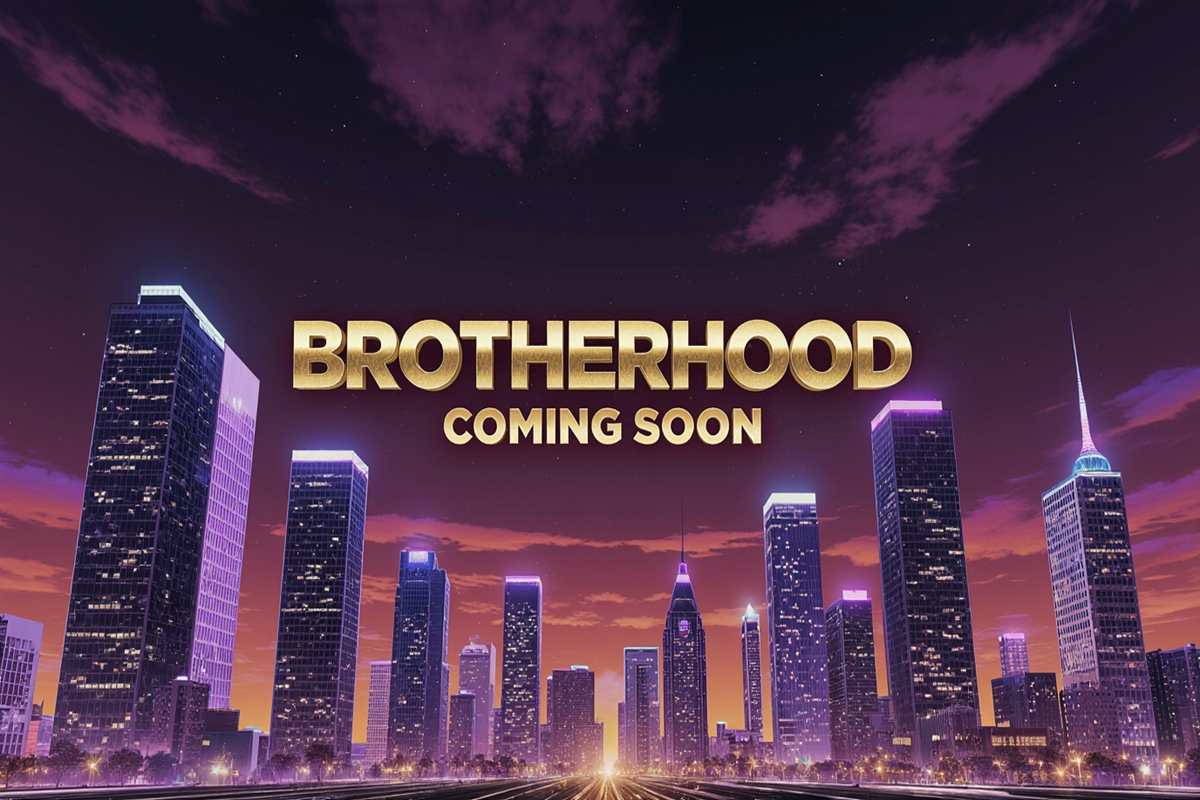
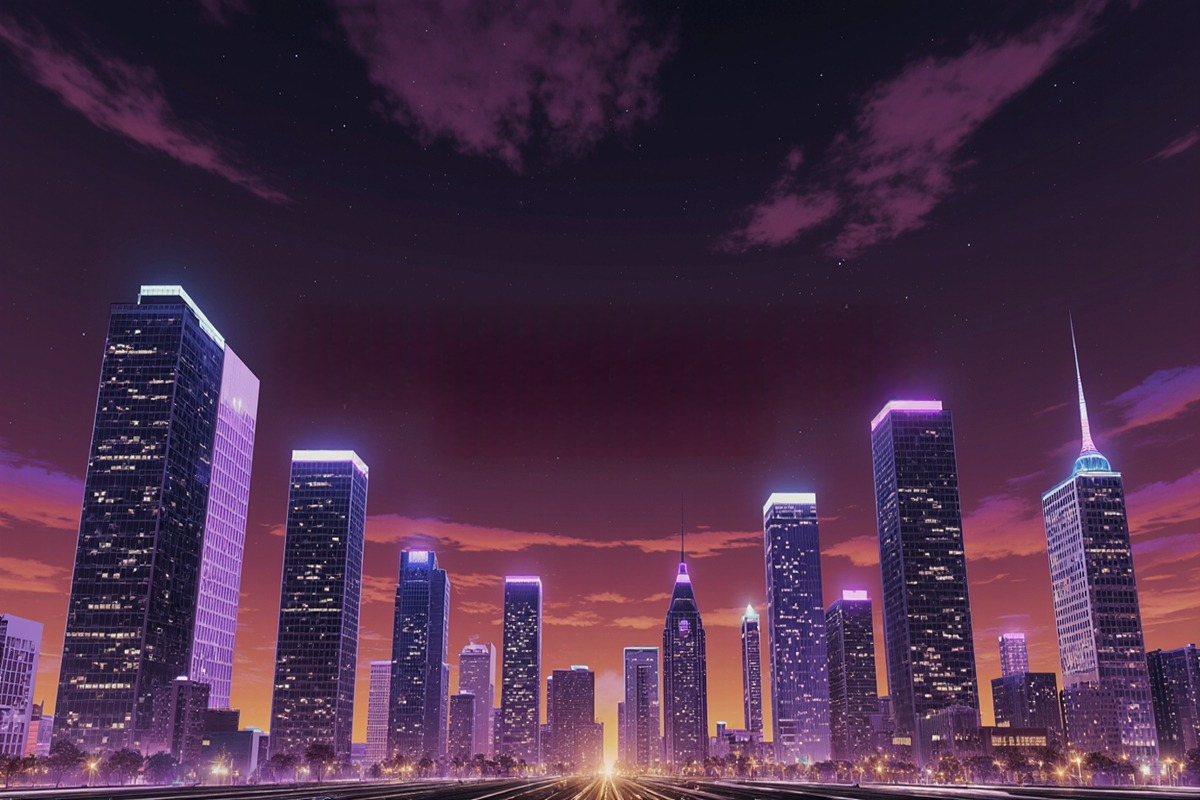
1.1.0
1.1.0

Changed region(s): [[0.2467, 0.375, 0.7708, 0.5625]]

diff --git a/js/script.js b/js/script.js
@@ -202,10 +202,12 @@ const CONTENT = {
         title: "Safe Zones",
         hint: "No provoking/criminal actions in these areas.",
         zones: [
-          { name: "Hospital", note: "No criminal/provoking actions → 48H Ban" },
-          { name: "Hotel", note: "No criminal/provoking actions → 48H Ban" },
-          { name: "Recycle", note: "No criminal/provoking actions → 48H Ban" },
-          { name: "Labs", note: "No criminal/provoking actions → 48H Ban" }
+          { name: "Hospital", note: "No criminal/provoking actions → 48H Ban", img: "./assets/hospital_sz.png" },
+          { name: "Hotel", note: "No criminal/provoking actions → 48H Ban", img: "./assets/hotel_sz.png" },
+          { name: "Fish", note: "No criminal/provoking actions → 48H Ban", img: "./assets/fish_sz.png" },
+          { name: "Recycle", note: "No criminal/provoking actions → 48H Ban", img: "./assets/Recycle_sz.jpg" },
+          { name: "Meth Lab", note: "No criminal/provoking actions → 48H Ban", img: "./assets/lab1_sz.jpg" },
+          { name: "Weed Lab", note: "No criminal/provoking actions → 48H Ban", img: "./assets/lab2_sz.jpg" }
         ]
       },
       death: {
@@ -348,10 +350,12 @@ const CONTENT = {
         title: "المناطق الآمنة",
         hint: "ممنوع أي تصرف إجرامي/استفزازي.",
         zones: [
-          { name: "Hospital", note: "ممنوع أفعال إجرامية/استفزاز → 48H Ban" },
-          { name: "Hotel", note: "ممنوع أفعال إجرامية/استفزاز → 48H Ban" },
-          { name: "Recycle", note: "ممنوع أفعال إجرامية/استفزاز → 48H Ban" },
-          { name: "Labs", note: "ممنوع أفعال إجرامية/استفزاز → 48H Ban" }
+          { name: "Hospital", note: "ممنوع أفعال إجرامية/استفزاز → 48H Ban", img: "./assets/hospital_sz.png" },
+          { name: "Hotel", note: "ممنوع أفعال إجرامية/استفزاز → 48H Ban", img: "./assets/hotel_sz.png" },
+          { name: "منطقة الصيد", note: "ممنوع أفعال إجرامية/استفزاز → 48H Ban", img: "./assets/fish_sz.png" },
+          { name: "Recycle", note: "ممنوع أفعال إجرامية/استفزاز → 48H Ban", img: "./assets/Recycle_sz.jpg" },
+          { name: "مختبر الميث", note: "ممنوع أفعال إجرامية/استفزاز → 48H Ban", img: "./assets/lab1_sz.jpg" },
+          { name: "مختبر الحشيش", note: "ممنوع أفعال إجرامية/استفزاز → 48H Ban", img: "./assets/lab2_sz.jpg" }
         ]
       },
       death: {
@@ -414,17 +418,23 @@ function renderShell(lang) {
   const isHome = !$("appRoot");
   if (isHome) {
     if (lang === "ar") {
-      safeSetText("brandSubtitle", "الرئيسية");
+      safeSetText("brandSubtitle", "بوابة القوانين");
       safeSetText("pageTitle", "Brotherhood RP — بوابة القوانين");
-      safeSetText("pageSubtitle", "قوانين واضحة. دخول سريع.");
-      safeSetText("pageDesc", "اضغط الزر للدخول إلى الأقسام ثم اقرأ القوانين.");
+      safeSetText("pageSubtitle", "حيث يبدأ الرول بلاي الجاد.");
+      safeSetText(
+        "pageDesc",
+        "اعثر على كل ما تحتاج معرفته قبل دخول المدينة. قوانيننا مصممة للحفاظ على تجربة عادلة، واقعية، وممتعة للجميع — سواء كنت لاعبًا جديدًا أو من سكان المدينة القدامى. تصفّح الأقسام عبر الزر بالأسفل وخذ لحظة لفهم المعايير المتوقعة داخل السيرفر. احترام القوانين يحمي تقدمك وسمعتك والمجتمع. مخالفة القوانين قد تؤدي إلى تحذيرات، إيقافات مؤقتة، أو باند دائم."
+      );
       const btn = $("homeBtn");
       if (btn) btn.textContent = "الدخول إلى الأقسام";
     } else {
       safeSetText("brandSubtitle", "Rules Portal");
       safeSetText("pageTitle", "Brotherhood RP — Rules Portal");
-      safeSetText("pageSubtitle", "Clear rules. Fast access.");
-      safeSetText("pageDesc", "Use the button below to open categories and read the rules.");
+      safeSetText("pageSubtitle", "Where serious roleplay begins.");
+      safeSetText(
+        "pageDesc",
+        "Find everything you need to know before stepping into the city. Our rules are designed to keep the experience fair, immersive, and enjoyable for everyone — whether you’re a new arrival or a long-time citizen. Browse the categories using the button below and take a moment to understand the standards expected on the server. Respecting the rules protects your progress, your reputation, and the community.\n\nFailure to follow them can result in warnings, temporary suspensions, or permanent bans."
+      );
       const btn = $("homeBtn");
       if (btn) btn.textContent = "Open Categories";
     }
@@ -720,6 +730,15 @@ function renderZones(zones) {
   for (const z of zones) {
     const el = document.createElement("div");
     el.className = "safeZone";
+
+    if (z.img) {
+      const img = document.createElement("img");
+      img.className = "safeZone__img";
+      img.src = z.img;
+      img.alt = z.name;
+      img.loading = "lazy";
+      el.appendChild(img);
+    }
 
     const name = document.createElement("div");
     name.className = "safeZone__name";

diff --git a/css/style.css b/css/style.css
@@ -4,6 +4,9 @@
   --primary-darker:#991b1b;
   --primary-light:#ef4444;
 
+  --font-body:'IBM Plex Sans','Inter',sans-serif;
+  --font-heading:'Space Grotesk','Inter',sans-serif;
+
   --bg-dark:#0f0f23;
   --bg-medium:#1a1a2e;
   --bg-light:#16213e;
@@ -47,7 +50,7 @@ html,body{height:100%}
 html{scroll-behavior:smooth}
 body{
   margin:0;
-  font-family:'Inter','Cairo',sans-serif;
+  font-family:var(--font-body);
   font-size:16px;
   line-height:1.6;
   background:linear-gradient(135deg, var(--bg-dark) 0%, var(--bg-medium) 100%);
@@ -55,8 +58,26 @@ body{
   overflow-x:hidden;
 }
 
-body[lang="ar"]{font-family:'Cairo','Inter',sans-serif;direction:rtl}
-body[lang="en"]{font-family:'Inter','Cairo',sans-serif;direction:ltr}
+body:not(.is-rules){
+  min-height:100vh;
+  display:flex;
+  flex-direction:column;
+}
+
+body:not(.is-rules) main{flex:1 1 auto;display:flex}
+
+body:not(.is-rules) .hero--home{flex:1 1 auto;display:flex;align-items:center;padding:46px 0}
+
+body[lang="ar"]{font-family:'Cairo',var(--font-body);direction:rtl}
+body[lang="en"]{font-family:var(--font-body);direction:ltr}
+
+.brand__title,
+.pane__title,
+.detailTitle,
+.tocOverlay__title,
+.hero__title{
+  font-family:var(--font-heading);
+}
 
 /* Scrollbar (scoped) */
 .rulesApp,
@@ -193,16 +214,15 @@ body.is-rules .container{
   margin:0;
   font-size:clamp(30px, 3.4vw, 46px);
   font-weight:800;
-  line-height:1.2;
-  text-shadow:0 4px 12px rgba(0, 0, 0, 0.3);
-  font-family: "Inter", "Cairo", sans-serif;
-  background: linear-gradient(135deg, var(--text-white), var(--primary-light));
+  letter-spacing:-.02em;
+  line-height:1.12;
+  background: linear-gradient(135deg, rgba(239, 68, 68, 1), rgba(255,255,255,.92));
   -webkit-background-clip:text;
   -webkit-text-fill-color:transparent;
   background-clip:text;
 }
-.hero__subtitle{margin:10px 0 0 0;color:var(--text-light);font-size:clamp(14px, 1.5vw, 18px);opacity:.95}
-.hero__desc{margin:14px auto 0 auto;max-width:860px;color:var(--text-gray);line-height:1.8}
+.hero__subtitle{margin:10px 0 0 0;color:var(--text-light);font-size:clamp(16px, 1.8vw, 22px);opacity:.95}
+.hero__desc{margin:14px auto 0 auto;max-width:860px;color:var(--text-gray);line-height:1.8;white-space:pre-line}
 
 .hero--home{
   padding:72px 0 54px 0;
@@ -605,11 +625,12 @@ html[dir="rtl"] .ruleItem__head{flex-direction:row-reverse}
 .safeZones{
   margin-top:12px;
   display:grid;
-  grid-template-columns:repeat(4, minmax(0,1fr));
+  grid-template-columns:repeat(auto-fit, minmax(190px, 220px));
   gap:10px;
+  justify-content:center;
 }
 @media (max-width:920px){
-  .safeZones{grid-template-columns:repeat(2, minmax(0,1fr))}
+  .safeZones{grid-template-columns:repeat(auto-fit, minmax(180px, 1fr))}
 }
 .safeZone{
   background:rgba(255,255,255,.05);
@@ -617,6 +638,15 @@ html[dir="rtl"] .ruleItem__head{flex-direction:row-reverse}
   border-radius:var(--radius-lg);
   padding:14px;
   transition:background .12s ease, border-color .12s ease, transform .12s ease;
+}
+.safeZone__img{
+  width:100%;
+  height:120px;
+  object-fit:cover;
+  display:block;
+  border-radius:12px;
+  margin:0 0 10px 0;
+  border:1px solid rgba(255,255,255,.10);
 }
 .safeZone:hover{
   background:rgba(255,255,255,.06);
@@ -671,6 +701,72 @@ html[dir="rtl"] .ruleItem__head{flex-direction:row-reverse}
 @media (min-width: 960px){
   .tocOverlay{display:none !important}
 }
+
+.footer.footer--home{
+  margin-top:0;
+  position:relative;
+  isolation:isolate;
+  background:linear-gradient(135deg, rgba(15, 15, 35, 0.48), rgba(26, 26, 46, 0.36));
+  border-top:1px solid rgba(220, 38, 38, 0.35);
+  backdrop-filter: blur(10px);
+  -webkit-backdrop-filter: blur(10px);
+  box-shadow:0 -18px 44px rgba(220, 38, 38, 0.16);
+}
+
+.footer.footer--home::before{
+  content:"";
+  position:absolute;
+  inset:0;
+  background:radial-gradient(circle at 50% 0%, rgba(220, 38, 38, 0.18), transparent 58%);
+  opacity:.9;
+  pointer-events:none;
+  z-index:0;
+}
+
+.footer.footer--home .container{position:relative;z-index:1}
+
+.footer.footer--home .container{padding-top:22px;padding-bottom:18px}
+
+.footer.footer--home .footer-content{
+  display:grid;
+  grid-template-columns:repeat(3, minmax(0, 1fr));
+  gap:14px;
+}
+
+@media (max-width: 860px){
+  .footer.footer--home .footer-content{grid-template-columns:1fr;gap:12px}
+}
+
+.footer.footer--home .footer-section h3{
+  margin:0;
+  font-size:18px;
+  font-weight:900;
+  color:var(--text-white);
+}
+
+.footer.footer--home .footer-section h4{margin:0 0 8px 0;font-size:14px;font-weight:900;color:var(--text-white)}
+
+.footer.footer--home .footer-section p{margin:8px 0 0 0;color:var(--text-light);opacity:.9;line-height:1.55;font-size:13px}
+
+.footer.footer--home .footer-section ul{margin:0;padding:0;list-style:none;display:grid;gap:6px}
+
+.footer.footer--home .footer-section li{color:var(--text-light);opacity:.88;font-size:13px;line-height:1.35}
+
+.footer.footer--home .footer-section a{color:var(--text-light);text-decoration:none}
+
+.footer.footer--home .footer-section a:hover{color:var(--primary-light)}
+
+.footer.footer--home .footer-bottom{
+  margin-top:12px;
+  padding-top:10px;
+  border-top:1px solid rgba(255,255,255,.08);
+  text-align:center;
+}
+
+.footer.footer--home .footer-bottom p{margin:0;color:var(--text-gray);font-size:12px;line-height:1.4}
+
+html[dir="rtl"] .footer.footer--home .footer-section,
+body[lang="ar"] .footer.footer--home .footer-section{ text-align:right }
 
 /* RTL support */
 html[dir="rtl"] .card__btn{text-align:right}

diff --git a/index.html b/index.html
@@ -9,7 +9,7 @@
     <link rel="apple-touch-icon" href="./images/icon.png" />
     <link rel="preconnect" href="https://fonts.googleapis.com" />
     <link rel="preconnect" href="https://fonts.gstatic.com" crossorigin />
-    <link href="https://fonts.googleapis.com/css2?family=Inter:wght@400;600;700;800&family=Cairo:wght@400;600;700;800&display=swap" rel="stylesheet" />
+    <link href="https://fonts.googleapis.com/css2?family=Space+Grotesk:wght@500;600;700&family=IBM+Plex+Sans:wght@400;500;600;700&family=Cairo:wght@400;600;700;800&display=swap" rel="stylesheet" />
     <link rel="stylesheet" href="./css/style.css" />
   </head>
   <body>
@@ -35,20 +35,53 @@
     <main>
       <section class="hero hero--home">
         <div class="container hero__inner">
-          <h1 class="hero__title" id="pageTitle">Brotherhood RP – Official Rules</h1>
-          <p class="hero__subtitle" id="pageSubtitle">Respect the RP. Create the Story.</p>
-          <p class="hero__desc" id="pageDesc">By joining the server, you agree to follow all rules listed below.</p>
+          <h1 class="hero__title" id="pageTitle">Brotherhood RP — Rules Portal</h1>
+          <p class="hero__subtitle" id="pageSubtitle">Where serious roleplay begins.</p>
+          <p class="hero__desc" id="pageDesc">Find everything you need to know before stepping into the city. Our rules are designed to keep the experience fair, immersive, and enjoyable for everyone — whether you’re a new arrival or a long-time citizen. Browse the categories using the button below and take a moment to understand the standards expected on the server. Respecting the rules protects your progress, your reputation, and the community.
+
+Failure to follow them can result in warnings, temporary suspensions, or permanent bans.</p>
 
           <div class="homeCtas">
             <a class="homeBtn" id="homeBtn" href="./rules.html">View Rules Categories</a>
           </div>
-
-          <div class="homeImages" aria-hidden="true">
-            <img class="homeImages__banner" src="./images/banner.png" alt="" loading="eager" decoding="async" />
-          </div>
         </div>
       </section>
     </main>
+
+    <footer class="footer footer--home">
+      <div class="container">
+        <div class="footer-content">
+          <div class="footer-section">
+            <h3>BrotherHood</h3>
+            <p>The Best RolePlay Server in Morocco</p>
+          </div>
+
+          <div class="footer-section">
+            <h4>Quick Links</h4>
+            <ul>
+              <li><a href="https://www.brotherhoodrp.site/" target="_blank" rel="noreferrer">Official Website</a></li>
+              <li><a href="https://discord.com/invite/hh4YygkeNQ" target="_blank" rel="noreferrer">Discord</a></li>
+              <li><a href="fivem://connect/cfx.re/join/5d565d">Join FiveM</a></li>
+              <li><a href="redm://connect/cfx.re/join/oqz437">Join RedM</a></li>
+            </ul>
+          </div>
+
+          <div class="footer-section">
+            <h4>Servers Info</h4>
+            <ul>
+              <li>QBCore &amp; VORPCore</li>
+              <li>96 Slots</li>
+              <li>FiveM &amp; RedM</li>
+              <li>24/7 Online</li>
+            </ul>
+          </div>
+        </div>
+
+        <div class="footer-bottom">
+          <p>&copy; 2025 BrotherHood RolePlay. All rights reserved. Developed by SPOO</p>
+        </div>
+      </div>
+    </footer>
 
     <script src="./js/script.js"></script>
   </body>

diff --git a/rules.html b/rules.html
@@ -9,7 +9,7 @@
     <link rel="apple-touch-icon" href="./images/icon.png" />
     <link rel="preconnect" href="https://fonts.googleapis.com" />
     <link rel="preconnect" href="https://fonts.gstatic.com" crossorigin />
-    <link href="https://fonts.googleapis.com/css2?family=Inter:wght@400;600;700;800&family=Cairo:wght@400;600;700;800&display=swap" rel="stylesheet" />
+    <link href="https://fonts.googleapis.com/css2?family=Space+Grotesk:wght@500;600;700&family=IBM+Plex+Sans:wght@400;500;600;700&family=Cairo:wght@400;600;700;800&display=swap" rel="stylesheet" />
     <link rel="stylesheet" href="./css/style.css" />
   </head>
   <body class="is-rules">
